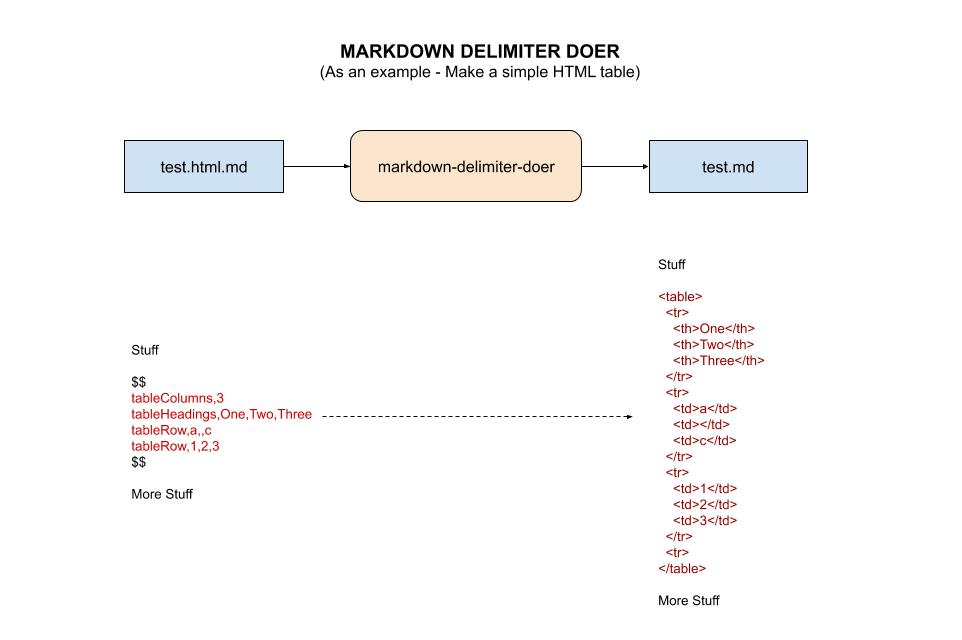
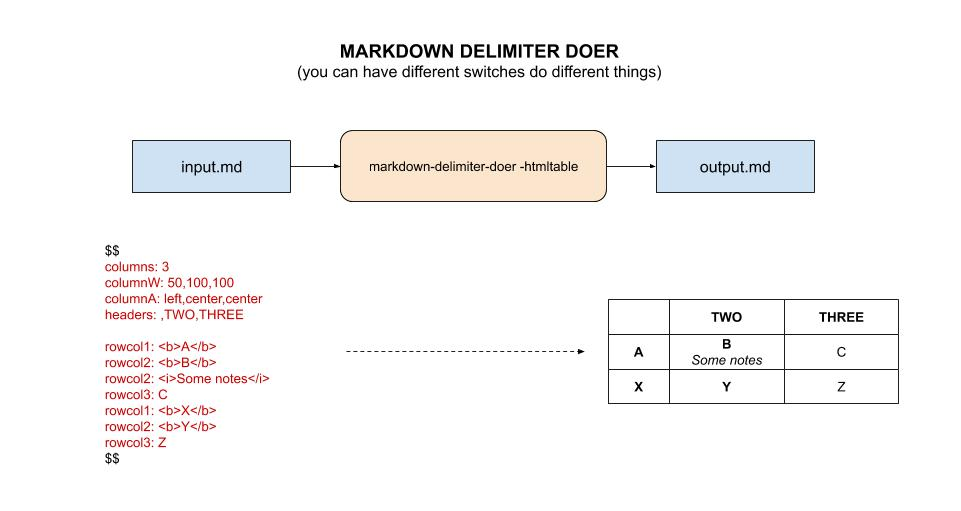
update markdown doer

diff --git a/basic-programming/markdown-delimiter-doer/markdown-delimter-doer.go b/basic-programming/markdown-delimiter-doer/markdown-delimter-doer.go
@@ -220,11 +220,12 @@ func main() {
 					break
 				}
 
-				// Place the line the line array
+				// Place the line in stuff
 				stuff = append(stuff, line)
 			}
 
 			// OK WE HAVE THE LINE ARRAY (Stuff between the delimeters)
+
 			// htmltable switch
 			if *htmlTableBoolPtr {
 
@@ -232,6 +233,8 @@ func main() {
 				makeHTMLTABLE(stuff, outputFile)
 				fmt.Println("END MAKE HTML TABLE")
 			}
+			// reset stuff to empty
+			stuff = []string{}
 
 			// Did not find a delimiter on this line
 		} else {

diff --git a/basic-programming/markdown-delimiter-doer/output.md b/basic-programming/markdown-delimiter-doer/output.md
@@ -73,4 +73,44 @@ Process whats between the delimiters,
   </tr>
 </table>
 
+Here is another example,
+
+<table style="font-size:.8em">
+  <!-- COLUMN WIDTHS -->
+  <col width="50">
+  <col width="100">
+  <col width="100">
+<!-- HEADING ROW -->
+  <tr>
+    <th></th>
+    <th>TWO</th>
+    <th>THREE</th>
+  </tr>
+  <!-- ROW -->
+  <tr>
+    <td  align="left" valign="top">
+      <b>A</b>
+    </td>
+    <td  align="center" valign="top">
+      <b>B</b><br>
+      <i>Some notes</i><br>
+    </td>
+    <td  align="center" valign="top">
+      C
+    </td>
+  </tr>
+  <!-- ROW -->
+  <tr>
+    <td  align="left" valign="top">
+      <b>X</b>
+    </td>
+    <td  align="center" valign="top">
+      <b>Y</b>
+    </td>
+    <td  align="center" valign="top">
+      Z
+    </td>
+  </tr>
+</table>
+
 This is the end of the test.

diff --git a/basic-programming/markdown-delimiter-doer/README.md b/basic-programming/markdown-delimiter-doer/README.md
@@ -6,8 +6,26 @@ and output new markdown file._
 
 [GitHub Webpage](https://jeffdecola.github.io/my-go-examples/)
 
-## MARKDOWN DOER
+## RUN
 
-Here is an illustration,
+Run using delimiters `$$` and the `-htmltable` switch,
+
+```bash
+go run markdown-delimter-doer.go -htmltable -delimeter \$\$ -i input.md -o output.md
+```
+
+To install (place an executable in your $GOPATH/bin),
+
+```bash
+go install markdown-delimter-doer.go
+```
+
+## SWITCHES
+
+You can make many different switches to do different things.
+
+### HTML TABLE SWITCH
+
+Here is an illustration using the `-htmltable` switch,
 
 ![IMAGE - markdown-delimiter-doer - IMAGE](../../docs/pics/markdown-delimiter-doer.jpg)

diff --git a/README.md b/README.md
@@ -107,7 +107,7 @@ _All sections in alphabetical order._
 
     _Logging and error handling._
 
-  * [markdown-delimiter-doer](https://github.com/JeffDeCola/my-go-examples/tree/master/basic-programming/markdown-delimter-doer)
+  * [markdown-delimiter-doer](https://github.com/JeffDeCola/my-go-examples/tree/master/basic-programming/markdown-delimiter-doer)
 
     _Take a markdown file and "do whatever you want" between the delimiters
     and output new markdown file._

diff --git a/basic-programming/markdown-delimiter-doer/input.md b/basic-programming/markdown-delimiter-doer/input.md
@@ -33,4 +33,21 @@ rowcol5: 10
 rowcol6: 02/23/25
 $$
 
+Here is another example,
+
+$$
+columns: 3
+columnW: 50,100,100
+columnA: left,center,center
+headers: ,TWO,THREE
+
+rowcol1: <b>A</b>
+rowcol2: <b>B</b>
+rowcol2: <i>Some notes</i>
+rowcol3: C
+rowcol1: <b>X</b>
+rowcol2: <b>Y</b>
+rowcol3: Z
+$$
+
 This is the end of the test.
